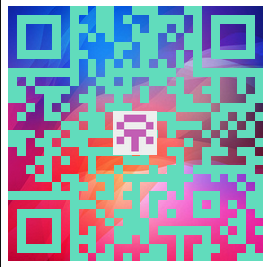
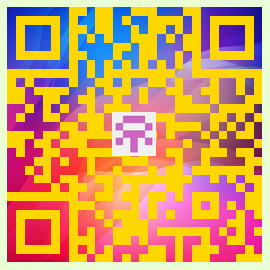
二维码代码片段

diff --git a/qrcode/qrcode_example_test.go b/qrcode/qrcode_example_test.go
@@ -13,8 +13,8 @@ func ExampleQRCode() {
 		qr := qrcode.NewQRCode("https://github.com/Is999")
 
 		// 设置相关参数
-		qr.SetSize(72)                                                     // 设置图片大小
-		qr.SetBackgroundColor(color.RGBA{R: 105, G: 225, B: 195, A: 255}). // 设置背景颜色
+		qr.SetSize(72)                                                   // 设置图片大小
+		qr.SetBackgroundColor(color.RGBA{R: 255, G: 215, B: 0, A: 255}). // 设置背景颜色
 											SetForegroundColor(color.RGBA{R: 55, G: 245, B: 105, A: 255}) // 设置前景颜色
 		qr.SetRecoveryLevel(2) // 设置容错级别
 
@@ -24,7 +24,7 @@ func ExampleQRCode() {
 			fmt.Println("创建二维码识失败：", err.Error())
 		}
 
-		// 给二维码填充色彩
+		//// 给二维码填充色彩
 		err = qr.FillColor("../images/color.png", 0, true)
 		if err != nil {
 			fmt.Println("给二维码填充色彩失败：", err.Error())
@@ -37,12 +37,12 @@ func ExampleQRCode() {
 		}
 
 		// 设置二维码边框
-		err = qr.SetBorder(8, color.RGBA{R: 255, G: 255, B: 255, A: 255})
+		err = qr.SetBorder(8, color.RGBA{R: 235, G: 255, B: 215, A: 255})
 		if err != nil {
 			fmt.Println("设置二维码边框失败：", err.Error())
 		}
 
-		// 二维码与海报合成
+		//// 二维码与海报合成
 		qr.SetHorizontal(11). // 设置偏移位置
 					SetOffsetX(129) // 设置图片X轴方向偏移量
 		err = qr.CreateAvatar("../images/new-year-poster.png", 338, 521, true)

diff --git a/qrcode/README.md b/qrcode/README.md
@@ -19,6 +19,7 @@
 
 <p align="center">
 <img src="https://raw.githubusercontent.com/Is999/go-code-snippets/main/images/qrcode-default.png" alt="二维码">
+<img src="https://raw.githubusercontent.com/Is999/go-code-snippets/main/images/qrcode-border.png" alt="二维码">
 <img src="https://raw.githubusercontent.com/Is999/go-code-snippets/main/images/qrcode-color.png" alt="彩色二维码">
 <img src="https://raw.githubusercontent.com/Is999/go-code-snippets/main/images/qrcode-logo.png" alt="logo二维码">
 <img src="https://raw.githubusercontent.com/Is999/go-code-snippets/main/images/qrcode-haibao.png" alt="海报二维码">
